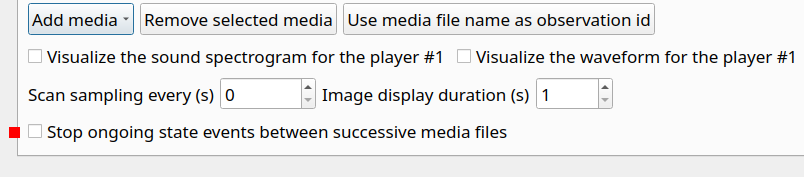
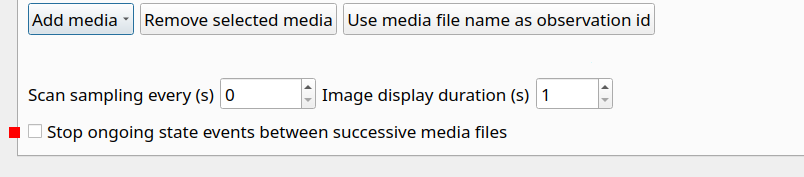
some changes

Changed region(s): [[0.0311, 0.2542, 0.995, 0.3955], [0.5597, 0.2542, 0.5908, 0.2825]]

diff --git a/src/observations.md b/src/observations.md
@@ -202,30 +202,33 @@ media file name as **observation id**
 
 
 
-### Spectrogram visualization
+### Spectrogram and waveform visualization
 
-BORIS allow you to visualize the sound spectrogram during the media observation.
-Activate the **Visualize spectrogram** check box.
-BORIS will ask you to generate the spectrograms for all media files loaded in the first player.
-
-Please note that the generation of the spectrogram can be long for long duration media files.
-
+BORIS can display audio information — such as the sound spectrogram and/or waveform — during media coding.
+In the **Display** column, choose the type of plot you want to visualize.
 
 <figure markdown>
-  ![Spectrogram generation](images/spectro1.png){width="80.0%"}
-  <figcaption>Spectrogram generation</figcaption>
+  ![Image title](images/media_files_tab_3.png){width="80.0%"}
+  <figcaption>Select display</figcaption>
 </figure>
 
 
 
-The spectrogram visualization will be synchronized to the media position
-during the observation.
+
+The spectrogram visualization will be synchronized to the media position during the observation.
 
 
 <figure markdown>
-  ![Spectrogram visualization](images/spectrogram.jpg){width="80.0%"}
+  ![Spectrogram visualization](images/spectrogram.png){width="80.0%"}
   <figcaption>Spectrogram visualization</figcaption>
 </figure>
+
+
+<figure markdown>
+  ![Spectrogram visualization](images/spectrogram_waveform.png){width="80.0%"}
+  <figcaption>Spectrogram and waveform visualization</figcaption>
+</figure>
+
 
 
 ### Stop all state events between media files
@@ -298,7 +301,7 @@ A new row will be added in the data files table.
 
 
 <figure markdown>
-  ![Data file table](images/external_data_file_1.png){width="80.0%"}
+  ![Data file table](images/external_data_file_2.png){width="80.0%"}
   <figcaption>Data file table</figcaption>
 </figure>
 
@@ -471,5 +474,3 @@ This option can be used to limit the observation to a time interval for
 live or media based observations.
 
 ![image](images/limit_obs_time_interval.png){width="80.0%"}
-
-
